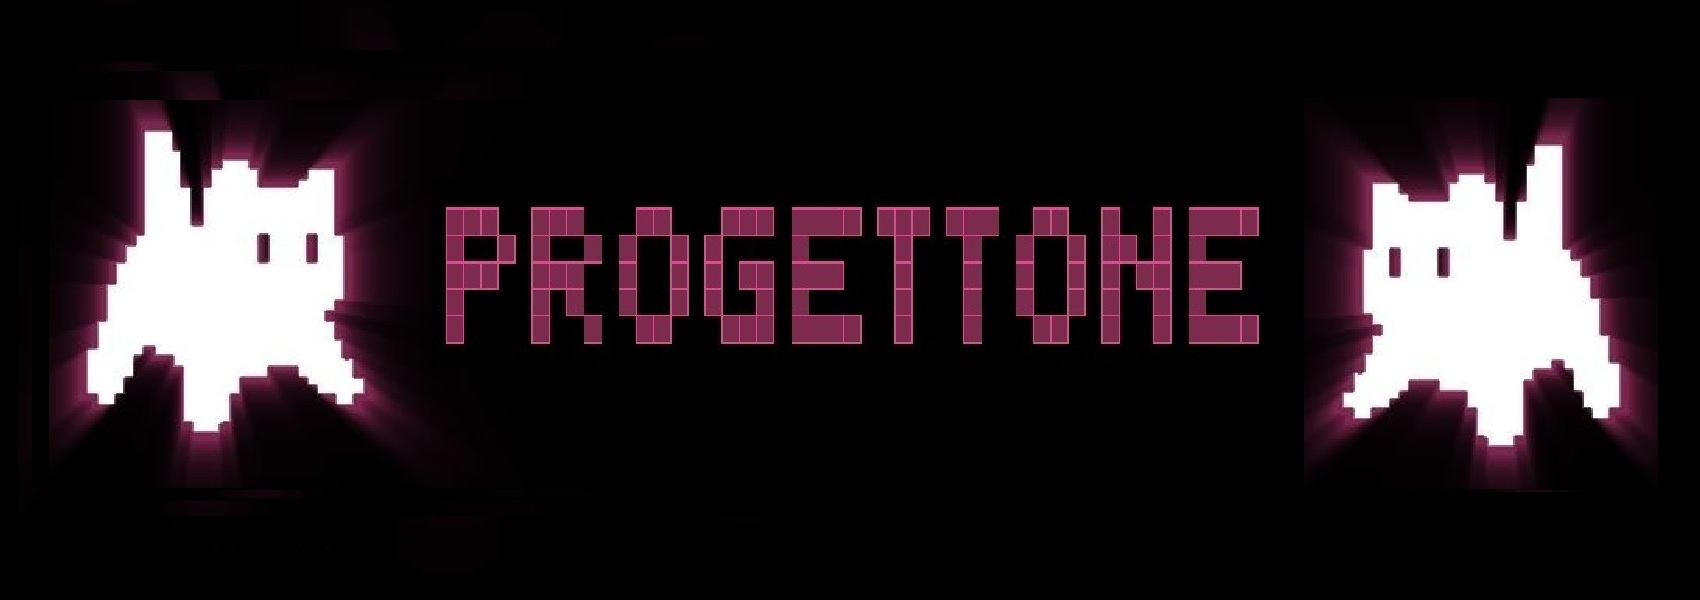
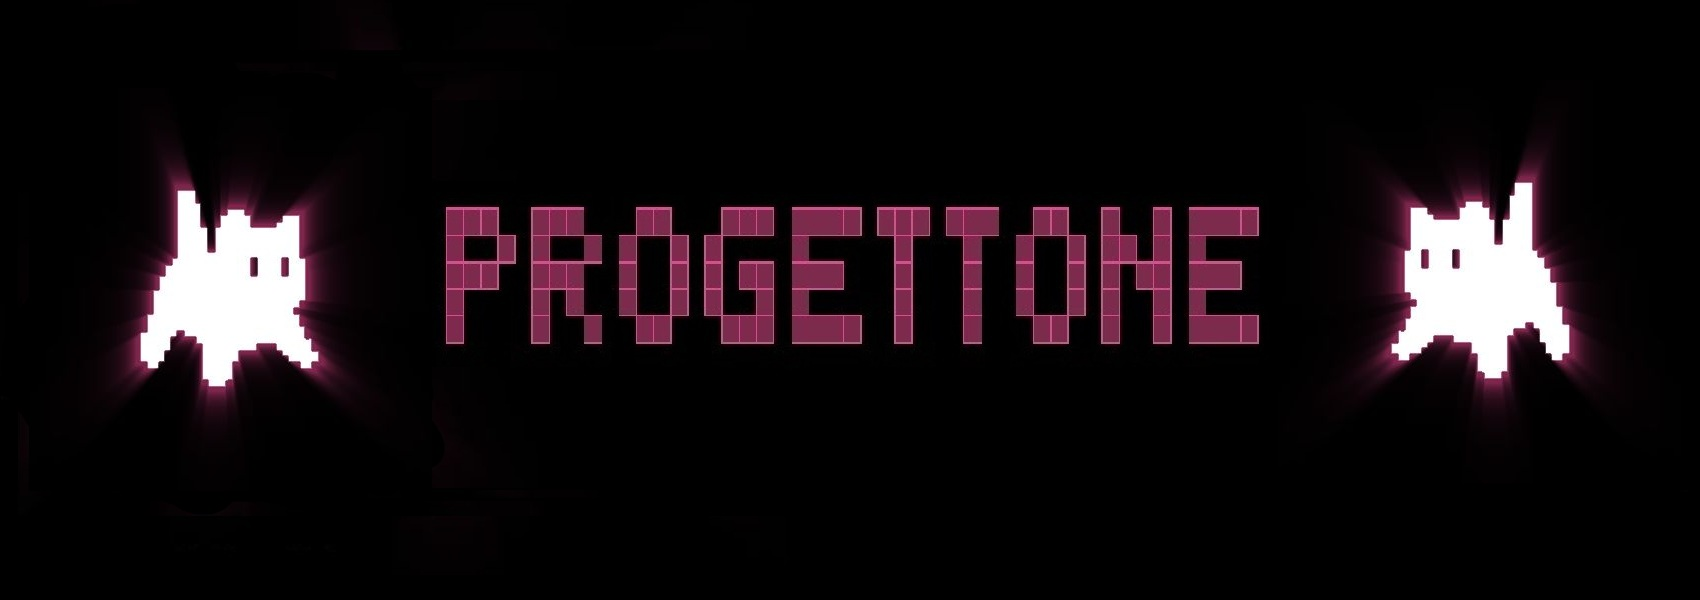
tolto background al gioco

Changed region(s): [[0.0312, 0.12, 0.2494, 0.81], [0.7482, 0.15, 0.9976, 0.84]]

diff --git a/src/main/resources/levi/progettone/css/style.css b/src/main/resources/levi/progettone/css/style.css
@@ -2,7 +2,7 @@
     -fx-font-family: "Segoe UI", Helvetica, Arial, sans-serif;
 }
 
-#menuScreen{
+#gameScreen, #menuScreen{
     -fx-background-color: black;
 }
 
@@ -49,6 +49,6 @@
 
 .vbox-background {
     -fx-background-repeat: no-repeat;
-    -fx-background-size: cover; /* Resizes image to fill the VBox */
+    -fx-background-size: cover;
     -fx-background-position: center center;
 }

diff --git a/src/main/java/levi/progettone/controller/GameController.java b/src/main/java/levi/progettone/controller/GameController.java
@@ -21,7 +21,7 @@ public class GameController {
     private Canvas canva;
 
     public void initialize(){
-        impostaSfondo();
+        //impostaSfondo();
     }
 
     @FXML
@@ -42,12 +42,12 @@ public class GameController {
         }
     }
 
-    @FXML
-    public void impostaSfondo() {
-        Image img = new Image(getClass().getResource("/levi/progettone/imgs/bg.jpg").toExternalForm());
-        BackgroundSize size = new BackgroundSize(BackgroundSize.AUTO, BackgroundSize.AUTO, false, false, false, true);
-        BackgroundImage bgImage = new BackgroundImage(img, BackgroundRepeat.NO_REPEAT, BackgroundRepeat.NO_REPEAT, BackgroundPosition.CENTER, size);
-
-        gameScreen.setBackground(new Background(bgImage));
-    }
+//    @FXML
+//    public void impostaSfondo() {
+//        Image img = new Image(getClass().getResource("/levi/progettone/imgs/bg.jpg").toExternalForm());
+//        BackgroundSize size = new BackgroundSize(BackgroundSize.AUTO, BackgroundSize.AUTO, false, false, false, true);
+//        BackgroundImage bgImage = new BackgroundImage(img, BackgroundRepeat.NO_REPEAT, BackgroundRepeat.NO_REPEAT, BackgroundPosition.CENTER, size);
+//
+//        gameScreen.setBackground(new Background(bgImage));
+//    }
 }

diff --git a/src/main/java/levi/progettone/controller/MenuController.java b/src/main/java/levi/progettone/controller/MenuController.java
@@ -4,7 +4,6 @@ import javafx.fxml.FXML;
 import javafx.fxml.FXMLLoader;
 import javafx.scene.Node;
 import javafx.scene.Scene;
-import javafx.scene.canvas.Canvas;
 import javafx.scene.control.Button;
 import javafx.scene.control.Label;
 import javafx.scene.image.Image;
